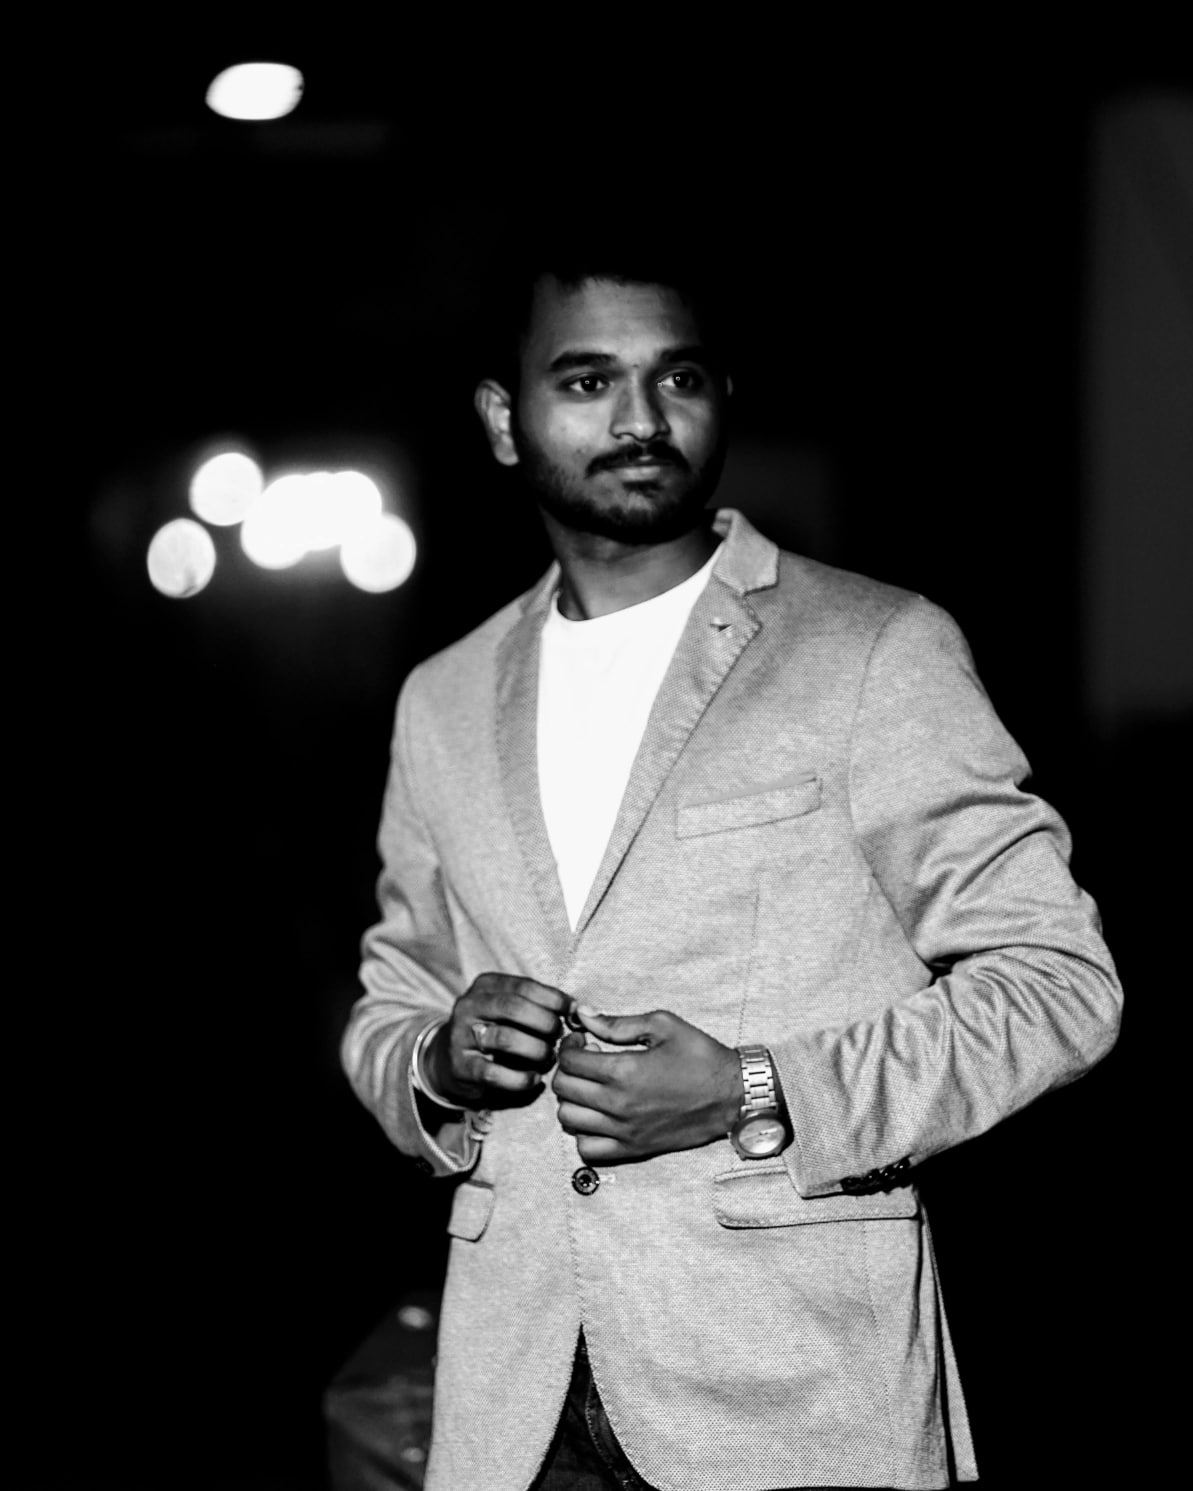
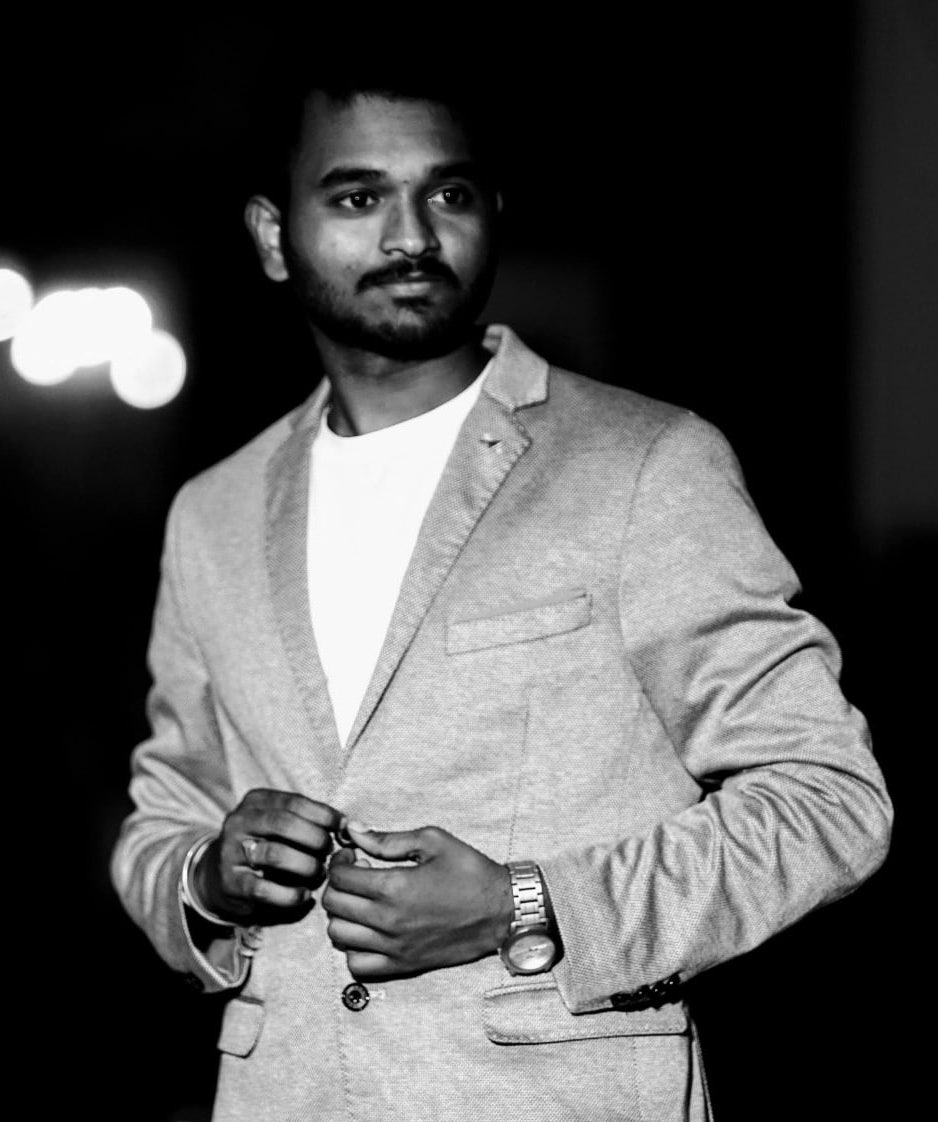
Updated Team page

diff --git a/aboutus.html b/aboutus.html
@@ -220,7 +220,7 @@
       <div class="col-lg-4 col-md-6 col-12">
         <div class="team-box-2">
           <div class="team-box-2-image">
-          <img src="images\team\parshuram.jpg" alt="member">
+          <img src="http://via.placeholder.com/355x355" alt="member">
             <div class="team-box-2-overlay">
               <div class="team-box-2-name">
                   <a href="rony das.html"><h4>Rony Das</h4></a>
@@ -264,7 +264,7 @@
             <div class="team-box-2-overlay">
               <div class="team-box-2-name">
                 <a href="Parshuram.html"><h4>Parshuram</h4></a>
-                <h5>Frontend Web Developer</h5>
+                <h5>Frontend Developer/ Hacker</h5>
               </div>
               <div class="team-box-2-content">
                 <a href="#"><i class="fa fa-facebook-official"></i></a>
@@ -280,11 +280,11 @@
       <div class="col-lg-4 col-md-6 col-12">
         <div class="team-box-2">
           <div class="team-box-2-image">
-              <a href="#"> <img src="http://via.placeholder.com/255x295" alt="member"></a>
+              <a href="#"> <img src="images/team/anon.jpg" alt="member"></a>
             <div class="team-box-2-overlay">
               <div class="team-box-2-name">
-                <h4>anonymous</h4>
-                <h5>It may be you!!</h5>
+                <h4>You could fit it</h4>
+                <h5>Apply <a href="mailto:jobs@primefort.net" style="color: white">jobs@primfort.net</a></h5>
               </div>
               <div class="team-box-2-content">
                 <a href="#"><i class="fa fa-facebook-official"></i></a>

diff --git a/parshuram.html b/parshuram.html
@@ -68,7 +68,7 @@
       <div class="row">
         <div class="col-md-4 col-sm-4 col-12">
           <div class="team-single-img">
-            <img src="images\team\raman1.jpg" alt="img">
+            <img src="images/team/parshuram.jpg" alt="img">
           </div>
         </div>
 
@@ -104,7 +104,7 @@
           <ul class="primary-list mt-40">
             <li><i class="fa fa-check"></i>To be Updated!!.</li>
             <li><i class="fa fa-check"></i>To be Updated!!.</li>
-
+		  </ul>
         </div>
 
         <div class="col-md-6 col-sm-6 col-12">

diff --git a/index.html b/index.html
@@ -100,7 +100,7 @@
           <li><a href="index.html">Home</a>
 
           </li>
-          <li><a href="about us.html">About</a>
+          <li><a href="aboutus.html">About</a>
 
           </li>
           <li><a href="#">Services</a>
